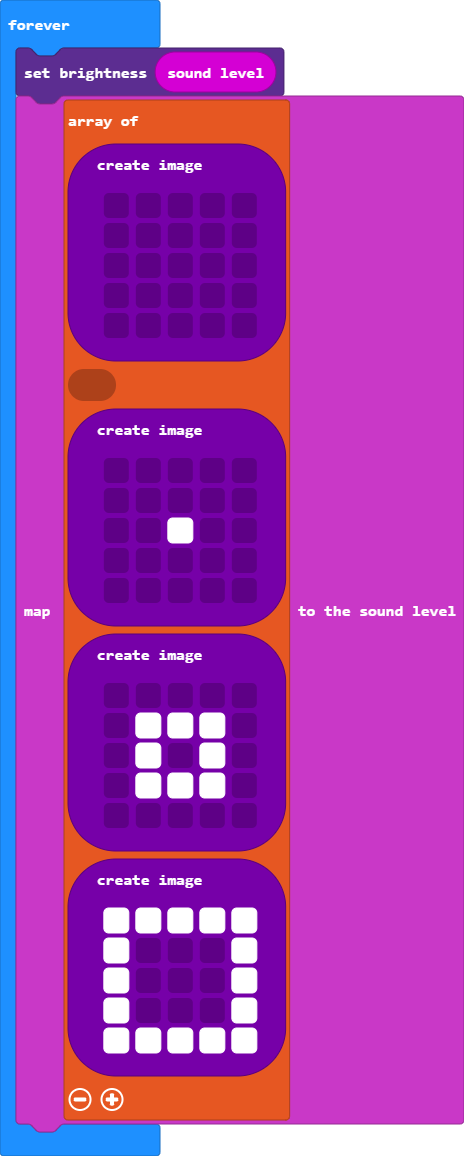
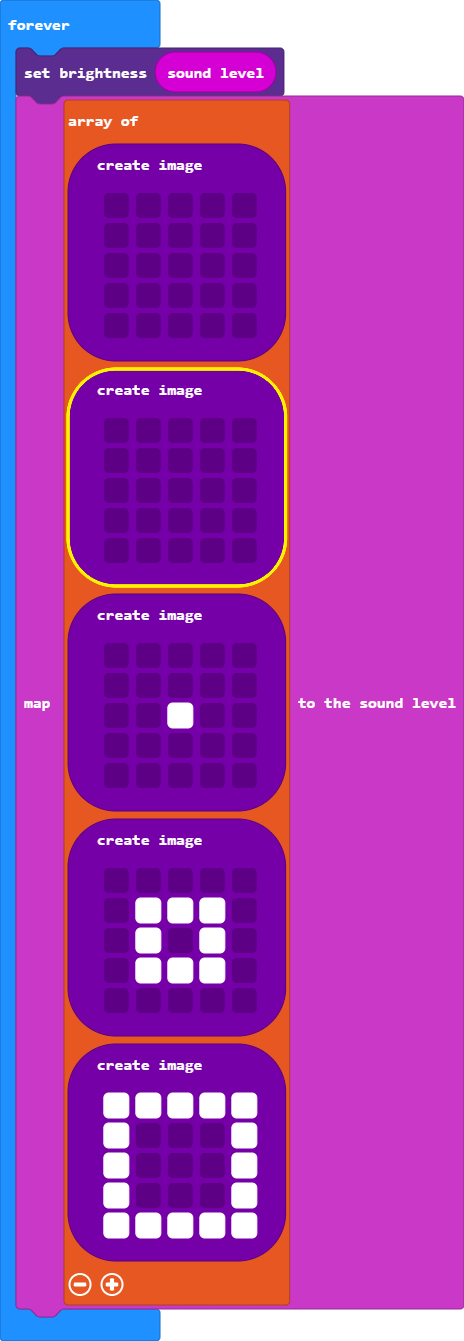
Update pxt.json, main.blocks, main.ts

diff --git a/main.ts b/main.ts
@@ -11,6 +11,13 @@ basic.forever(function () {
     images.createImage(`
         . . . . .
         . . . . .
+        . . . . .
+        . . . . .
+        . . . . .
+        `),
+    images.createImage(`
+        . . . . .
+        . . . . .
         . . # . .
         . . . . .
         . . . . .
